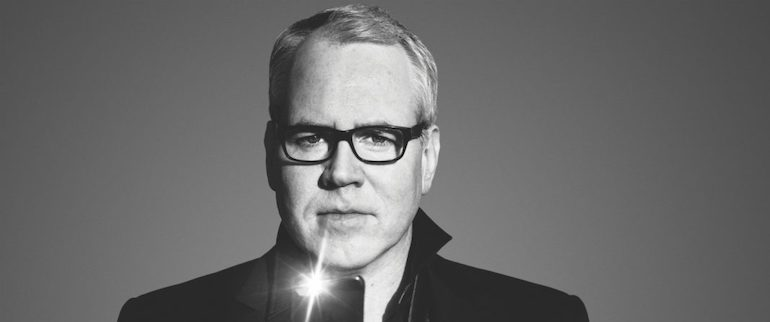
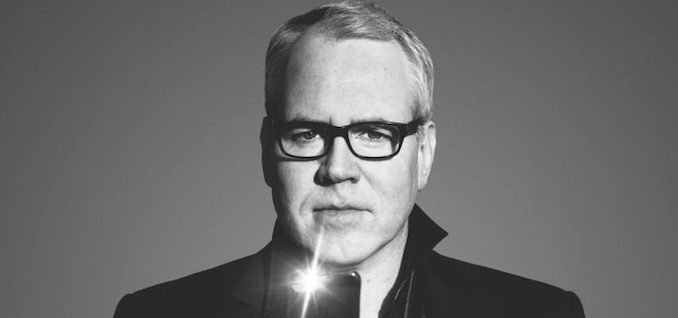
A035: finish BEE podcast section
Changed BEE color scheme
Replaced main photo
Put links to podcast sources and BEE youtube interviews
Changed some CSS classes to alter some formatting

Changed region(s): [[0.2478, 0.0, 0.8673, 1.0], [0.1549, 0.8774, 0.2478, 1.0]]

diff --git a/src/components/coolstuff/podcasts/Ellis.js b/src/components/coolstuff/podcasts/Ellis.js
@@ -2,17 +2,10 @@ import React from 'react';
 
 function Ellis() {
     return (
-        <div className="ferriss-pocket">  
+        <div className="ellis-pocket">  
             <div>
-                <div className="ellis-header">
-                    <img src="images/Bret-Easton-Ellis.jpg" alt="Bret Easton Ellis" className="ellis-img" />
-                    <a href="https://www.podcastone.com/Bret-Easton-Ellis-Podcast" target="_blank" rel="noopener noreferrer">
-                        <div className="ellis-title">
-                            <div>
-                                <h2>The</h2><h2>Bret</h2><h2>Easton</h2><h2>Ellis</h2><h2>Podcast</h2>
-                            </div>
-                        </div>
-                    </a>
+                <div className="pocket-img-container">
+                    <img src="images/bee-podcast.png" alt="Bret Easton Ellis" className="ellis-img" />
                 </div>
                 <div className="pocket-blurb">
                     <p>
@@ -23,23 +16,26 @@ function Ellis() {
                     </p>
                 </div>
                 <div className="recommended-things ellis-recommendations">
-                    <p>Recommended Episodes</p>
+                    <p>Where to find it:</p>
                     <hr />
+                    <p className="ellis-span">Most of Bret's content is behind a (small) paywall. This is unfortunate, because talk of paywalls generally raises people's anxiety, but paywalls are also a reality I completely understand. You have to find a way to monetize content somehow.</p>
+                    <p className="ellis-span">Until mid-2017, the podcast was available from PodcastOne. Some episodes here are free, so you can get a taste of whether it is for you.</p>
+                    <p className="ellis-span">The last couple of years have seen the podcast move to Patreon, behind aforementioned paywall. There are different options and amounts, depending on how much you feel it's worth contributing.</p>
                     <table>
                         <tbody>
                             <tr>
-                                <td><a href="https://tim.blog/2015/12/06/jamie-foxx/" target="_blank" rel="noopener noreferrer"><div><img alt="Logo" src="images/bee-square.jpg" height="30%" width="30%"/><span>Jamie Foxx on Workout Routines, Success Habits, and Untold Hollywood Stories (#124)</span></div></a></td>
-                                <td><a href="https://tim.blog/2015/09/25/jocko-willink/" target="_blank" rel="noopener noreferrer"><div><img alt="Logo" src="images/bee-square.jpg" height="30%" width="30%"/><span>The Scariest Navy SEAL Imaginable…And What He Taught Me (#107)</span></div></a></td>
+                                <td><a href="https://www.podcastone.com/Bret-Easton-Ellis-Podcast" target="_blank" rel="noopener noreferrer"><div><img alt="Logo" src="images/bee-square.jpg" height="30%" width="30%"/><span>BEE Podcast on PodcastOne (until 2017)</span></div></a></td>
+                                <td><a href="https://www.patreon.com/breteastonellispodcast" target="_blank" rel="noopener noreferrer"><div><img alt="Logo" src="images/bee-square-2.jpg" height="30%" width="30%"/><span>BEE Podcast on Patreon (post–2017)</span></div></a></td>
                             </tr>
                             <tr>
-                                <td><a href="https://tim.blog/2015/09/14/are-psychedelic-drugs-the-next-medical-breakthrough/" target="_blank" rel="noopener noreferrer"><div><img alt="Logo" src="images/bee-square.jpg" height="30%" width="30%"/><span>Are Psychedelic Drugs the Next Medical Breakthrough? (#104)</span></div></a></td>
-                                <td><a href="https://tim.blog/2015/07/31/tara-brach/" target="_blank" rel="noopener noreferrer"><div><img alt="Logo" src="images/bee-square.jpg" height="30%" width="30%"/><span>Tara Brach on Meditation and Overcoming FOMO (Fear Of Missing Out) (#94)</span></div></a></td>
+                                <td><a href="https://www.youtube.com/watch?v=a2clzi2zXrk" target="_blank" rel="noopener noreferrer"><div><img alt="Logo" src="images/bee-face-square.jpg" height="30%" width="30%"/><span>Bret Easton Ellis interview on Larry King</span></div></a></td>
+                                <td><a href="https://www.youtube.com/watch?v=oj3vRdHHdsw" target="_blank" rel="noopener noreferrer"><div><img alt="Logo" src="images/bee-face-square.jpg" height="30%" width="30%"/><span>Bret Easton Ellis interview on The Rubin Report</span></div></a></td>
                             </tr>
                         </tbody>
                     </table>
                 </div>
             </div>
-            <div className="ferriss-bar-right"></div>
+            <div className="ellis-bar-right"></div>
         </div>
     )
 }

diff --git a/src/App.css b/src/App.css
@@ -691,50 +691,46 @@ footer {
   z-index: 10;
 }
 /* The Bret Easton Ellis Podcast */
-.ellis-img {
-  position: absolute;
-  left: 7em;
-  top: -2em;
-  z-index: 30;
-  -webkit-transform: scale(0.9); /* Saf3.1+, Chrome */
-     -moz-transform: scale(0.9); /* FF3.5+ */
-      -ms-transform: scale(0.9); /* IE9 */
-       -o-transform: scale(0.9); /* Opera 10.5+ */
-          transform: scale(0.9);
-}
-.ellis-header {
-  position: relative;
-}
-.ellis-header a {
-  text-decoration: none;
-}
-.ellis-title {
-  position: relative;
-  /* opacity: 100%; */
-  background-color: black;
-  border-radius: 2%;
-  width: 20%;
-  height: 274px;
+.ellis-pocket {
+  background-color: #002933;
   display: flex;
-  flex-direction: column;
-  align-items: center;
-  justify-content: center;
-  color: #691c26;
-  font-family: adelle, serif;
-  text-align: center;
-  margin-right: auto;
+}
+.ellis-img {
+  position: relative;
+  left: 0em;
+  top: 0em;
   z-index: 30;
-  /* margin: 1em; */
+  height: 100%;
+  width: 100%;
 }
-.ellis-title:hover {
-  color: #e0e0de;
-}
-.ellis-title h2 {
-  margin-top: 0.2em;
-  margin-bottom: 0.2em;
+.ellis-back-btn {
+  background-color: #002933;
 }
 .ellis-recommendations {
-  background-color: #691c26;
+  background-color: black;
+}
+.ellis-recommendations p {
+  color: #44d9e6;
+}
+.ellis-recommendations .ellis-span {
+  padding-left: 3em;
+  padding-right: 3em;
+  font-size: 0.75em;
+  line-height: 1.5;
+  text-align: left;
+}
+.ellis-recommendations td {
+  background-color: rgb(68, 217, 230, 0.6);
+  height: 8em;
+}
+.ellis-recommendations span {
+  color: black;
+  font-size: 0.9em;
+  line-height: 1.5;
+}
+.ellis-bar-right {
+  background-color: #002933;
+  width: 10em;
 }
 
 /* Book pocket CSS */

diff --git a/src/components/coolstuff/SelectedContent.js b/src/components/coolstuff/SelectedContent.js
@@ -20,10 +20,11 @@ class SelectedContent extends React.Component {
 
         let backBtn = classNames({
             'back-btn': true,
-            'ferriss-back-btn': this.props.content[0].type === 'podcast' && (content[0].selected || content[4].selected),
+            'ferriss-back-btn': content[0].type === 'podcast' && content[0].selected,
             'rogan-back-btn': content[1].selected && content[1].type === 'podcast',
             'happiness-back-btn': content[2].selected && content[2].type === 'podcast',
             'harris-back-btn': content[3].selected && content[3].type === 'podcast',
+            'ellis-back-btn': content[0].type === 'podcast' && content[4].selected,
             'dostoevsky-back-btn': content[0].selected && content[0].type === 'book',
             'ferrante-back-btn': content[1].selected && content[2].type === 'book',
             'american-psycho-back-btn': content[2].selected && content[1].type === 'book',
